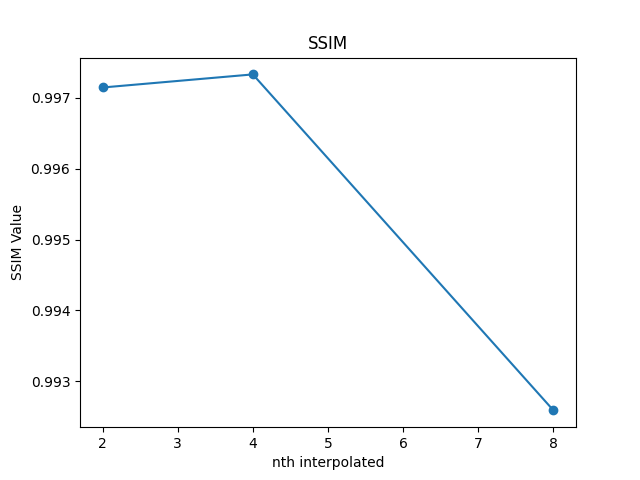
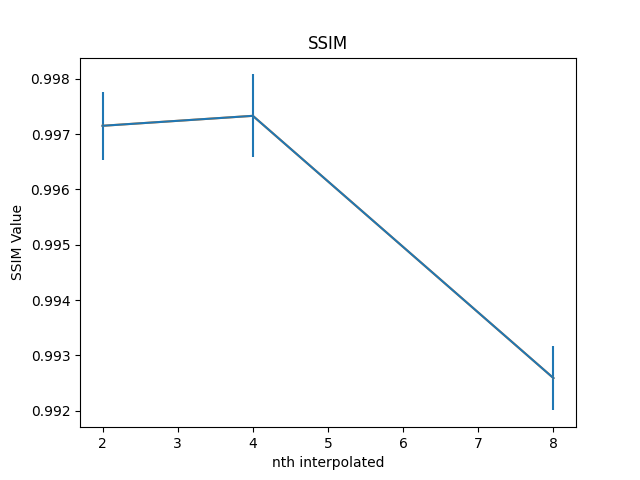
Add FPS evaluation

diff --git a/eval/eval.py b/eval/eval.py
@@ -6,92 +6,89 @@ import matplotlib.pyplot as plt
 import numpy as np
 from skimage import metrics
 import cv2
+import statistics
+import re
 
-defFPS = [] # List of default FPS without optimization
+values = {}
+num_seeds = 0
 
-diff = [0, 0, 0]
-thresholds = [2.0, 4.0, 8.0]
-
-base = ''
-
-def get_diff(dir, it):
-    extension = 'csv'
-    os.chdir(dir)
-    result = glob.glob('*.{}'.format(extension))
+def get_stddev():
+    stdev = []
     
-    eval = result[0]
+    for key in values:
+        stdev.append(statistics.stdev(values[key]))
 
-    currentDiff = 0
+    return stdev
 
-    with open(eval, newline='') as csvfile:
+fps = [0, 0, 0, 0]
+thresholds = [0.0, 2.0, 4.0, 8.0]
+
+def get_fps(file, it):
+    with open(file, newline='') as csvfile:
         reader = csv.reader(csvfile, delimiter=',', quotechar='|')
-        next(reader)
-        i = 0
+        
+        sum = 0
+        amount = 0
         for row in reader:
-            currentDiff += float(row[2]) - defFPS[i]
-            i += 1
+            if not it in values:
+                values[it] = []
 
-        currentDiff /= i
+            values[it].append(int(row[0]))
+            sum += int(row[0])
+            amount += 1
 
-    diff[it] += currentDiff
-
-
-def get_def(dir):
-    extension = 'csv'
-    os.chdir(dir)
-    result = glob.glob('*.{}'.format(extension))
-    
-    eval = result[0]
-
-    with open(eval, newline='') as csvfile:
-        reader = csv.reader(csvfile, delimiter=',', quotechar='|')
-        next(reader)
-        for row in reader:
-            defFPS.append(float(row[2]))
-    
-def fps_reset():
-    defFPS.clear()
+        fps[it] += sum / amount
 
 def fps_walk(root):
+    global num_seeds
+
     it = 0
     for subdir, dirs, files in os.walk(root):
-        for dir in dirs:
-            if (dir != 'img'):
-                vol, cam, threshold = dir.split('_')
-                if (float(threshold) == 0.0):
-                    fps_reset()
-                    it = 0
-                    get_def(root + '/' + dir)
-                else:
-                    get_diff(root + '/' + dir, it)
-                    it += 1
+        for file in files:
+            sseed, dseed, interp, _ = re.split('_|.txt', file)
+            loc = root + '/' + file
+
+            if (float(interp) == 0.0):
+                num_seeds += 1
+                it = 0
+                get_fps(loc, it)
+            else:
+                it += 1
+                get_fps(loc, it)
 
 def fps_result():
-    actualDiff = [x / 4 for x in diff]
-    print(actualDiff)
+    actual_fps = fps
 
-    plt.plot(thresholds, actualDiff)
+    stdev = get_stddev()
+
+    if (num_seeds != 0):
+        actual_fps = [x / num_seeds for x in fps]
+
+    plt.errorbar(thresholds, actual_fps, stdev)
+    plt.plot(thresholds, actual_fps)
     plt.xlabel('Thresholds')
     plt.ylabel('FPS difference')
-    plt.title('Engine FPS based on pixel coherence threshold')
+    plt.title('FPS based on n')
 
-    plt.xticks(np.arange(0.2, 1.2, 0.2))
+    #plt.xticks(np.arange(0.2, 1.2, 0.2))
 
-    plt.savefig('engine_fps.png')
+    plt.savefig('fps.png')
 
 # SSIM
-
 ssim = [0.0, 0.0, 0.0]
-def_pos = "5"
-num_seeds = 0
+def_pos = "1"
 
 def ssim_diff(dir, def_dir, it):
     image = cv2.imread(dir)
     def_image = cv2.imread(def_dir)
 
     sim = metrics.structural_similarity(def_image, image, multichannel=True)
-    
     ssim[it] += sim
+
+    if not it in values:
+        values[it] = []
+
+    values[it].append(sim)
  
 def ssim_walk(root):
     global num_seeds
@@ -113,15 +110,17 @@ def ssim_walk(root):
                 else:
                     ssim_diff(img_dir, def_dir, it)
                     it += 1
+         
 
 def ssim_result():
     actual_ssim = ssim
 
-    print("Num: " + str(num_seeds))
+    stdev = get_stddev()
+
     if (num_seeds != 0):
         actual_ssim = [x / num_seeds for x in ssim]
 
-    plt.scatter(thresholds, actual_ssim)
+    plt.errorbar(thresholds, actual_ssim, stdev)
     plt.plot(thresholds, actual_ssim)
     plt.xlabel('nth interpolated')
     plt.ylabel('SSIM Value')
@@ -138,15 +137,28 @@ def print_single_ssim(first, second, root):
 
     print(metrics.structural_similarity(cv2.imread(first), cv2.imread(second), multichannel=True))
 
+def ssim_reset(new_pos):
+    global values, ssim, num_seeds, def_pos
+
+    values = {}
+    ssim = [0.0, 0.0, 0.0]
+    num_seeds = 0
+    def_pos = new_pos
+    plt.cla()
+
 def main():
-    root = str(pathlib.Path().resolve()) + '/img'
+    root = str(pathlib.Path().resolve())
 
-    # Get graph of FPS vs coherence threshold
-    #fps_walk(root)
-    #fps_result()
+    # Get graph of FPS vs n
+    fps_walk(root + '/fps')
+    fps_result()
 
-    ssim_walk(root)
-    ssim_result()
+    positions = 5
+
+    #for pos in range(1,positions+1):
+        #ssim_reset(str(pos))
+        #ssim_walk(root + '/img')
+        #ssim_result()
 
 if __name__ == "__main__":
     main()

diff --git a/Assets/Scripts/FPS.cs b/Assets/Scripts/FPS.cs
@@ -9,11 +9,13 @@ public class FPS : MonoBehaviour {
     private int frames = 0;
 
     private bool shouldCalculate;
+    private bool skippedFirst;
 
     private StreamWriter writer;
 
     private void Start() {
         timeLeft = interval;
+        skippedFirst = false;
 
         if (shouldCalculate)
             OpenFile();
@@ -26,7 +28,10 @@ public class FPS : MonoBehaviour {
         frames++;
 
         if (timeLeft <= 0) {
-            WriteToFile(frames);
+            // Skip first to avoid FPS outliars on startup
+            if (skippedFirst) WriteToFile(frames);
+            else skippedFirst = true;
+
             ResetFPS();
         }
     }
@@ -37,6 +42,8 @@ public class FPS : MonoBehaviour {
 
         writer = new StreamWriter(destination, true);
         shouldCalculate = true;
+        skippedFirst = false; // Skip first every iteration
+
         ResetFPS();
     }
 
